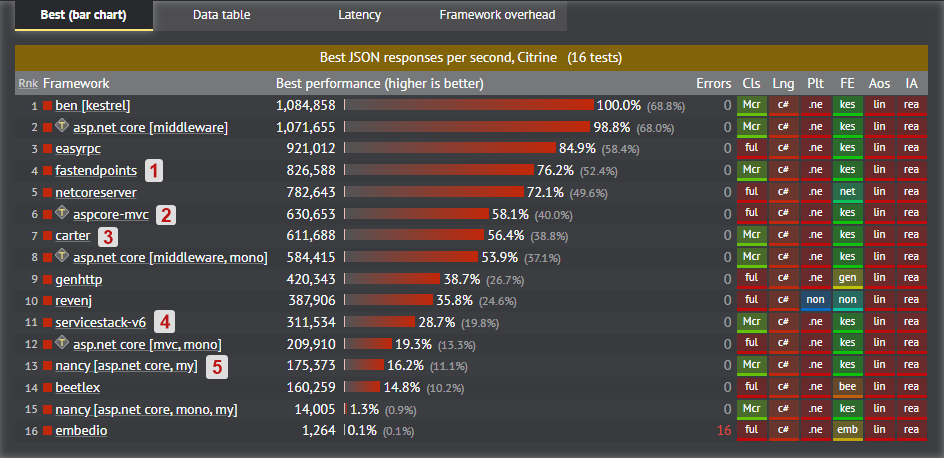
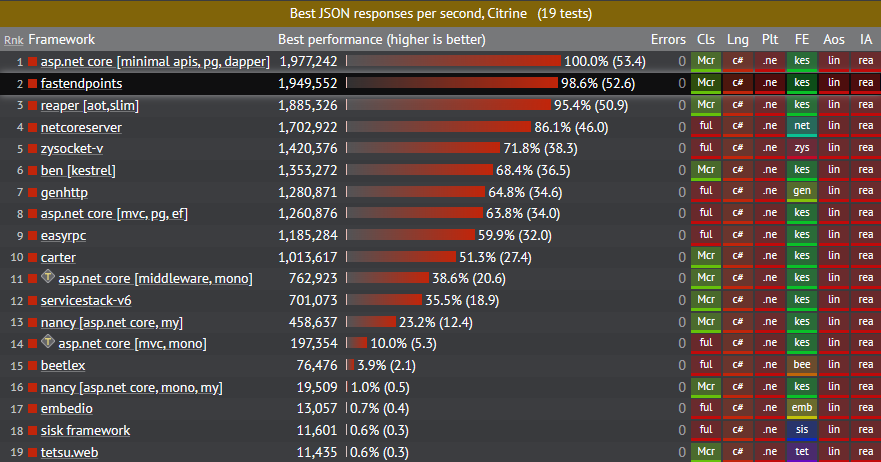
Update benchmarks page

diff --git a/src/routes/benchmarks@kit-docs.md b/src/routes/benchmarks@kit-docs.md
@@ -7,13 +7,13 @@ description: A light-weight REST Api framework for ASP.Net 6 that implements REP
 
 ## Head-To-Head Benchmark
 
-|                           Method |     Mean | Ratio |   Gen0 |   Gen1 | Allocated | Alloc-Ratio |
-|--------------------------------- |---------:|------:|-------:|-------:|----------:|------------:|
-|                    FastEndpoints | 40.32 μs |  1.00 | 2.0000 |      - |  16.71 KB |        1.00 |
-|           ASP NET 7 Minimal APIs | 44.07 μs |  1.09 | 2.1000 |      - |  17.07 KB |        1.02 |
-|          FastEndpoints (CodeGen) | 44.67 μs |  1.11 | 2.0000 |      - |  16.75 KB |        1.00 |
+| Method                           |     Mean | Ratio |   Gen0 |   Gen1 | Allocated | Alloc-Ratio |
+|----------------------------------|---------:|------:|-------:|-------:|----------:|------------:|
+| FastEndpoints                    | 40.32 μs |  1.00 | 2.0000 |      - |  16.71 KB |        1.00 |
+| ASP NET 7 Minimal APIs           | 44.07 μs |  1.09 | 2.1000 |      - |  17.07 KB |        1.02 |
+| FastEndpoints (CodeGen)          | 44.67 μs |  1.11 | 2.0000 |      - |  16.75 KB |        1.00 |
 | FastEndpoints (Scoped Validator) | 57.83 μs |  1.43 | 3.4000 | 0.1000 |  28.08 KB |        1.68 |
-|         ASP NET 7 MVC Controller | 63.97 μs |  1.59 | 2.8000 | 0.1000 |  23.58 KB |        1.41 |
+| ASP NET 7 MVC Controller         | 63.97 μs |  1.59 | 2.8000 | 0.1000 |  23.58 KB |        1.41 |
 
 ## Bombardier Load Test (best out of 5 runs)
 
@@ -59,6 +59,7 @@ Statistics        Avg      Stdev        Max
 ```
 
 ## TechEmpower Benchmark (Preliminary)
-<a href="https://www.techempower.com/benchmarks/#section=test&runid=b0f80483-5664-4bfb-9614-de615d1ac8f8&hw=ph&test=json&l=zik0zh-sf&c=8&a=2" target="_blank">
+
+<a href="https://www.techempower.com/benchmarks/#section=test&runid=3c2e9871-9c2a-4ff3-bc31-620f65da4e74&hw=ph&test=json&l=zik0zh-6bj&p=zik0zi-zik0zj-zik0zj-zik0zj-zik0zj-1r&c=8" target="_blank">
   <img src="/techempower-benchmarks.png" alt="TechEmpower Benchmark" />
 </a>
